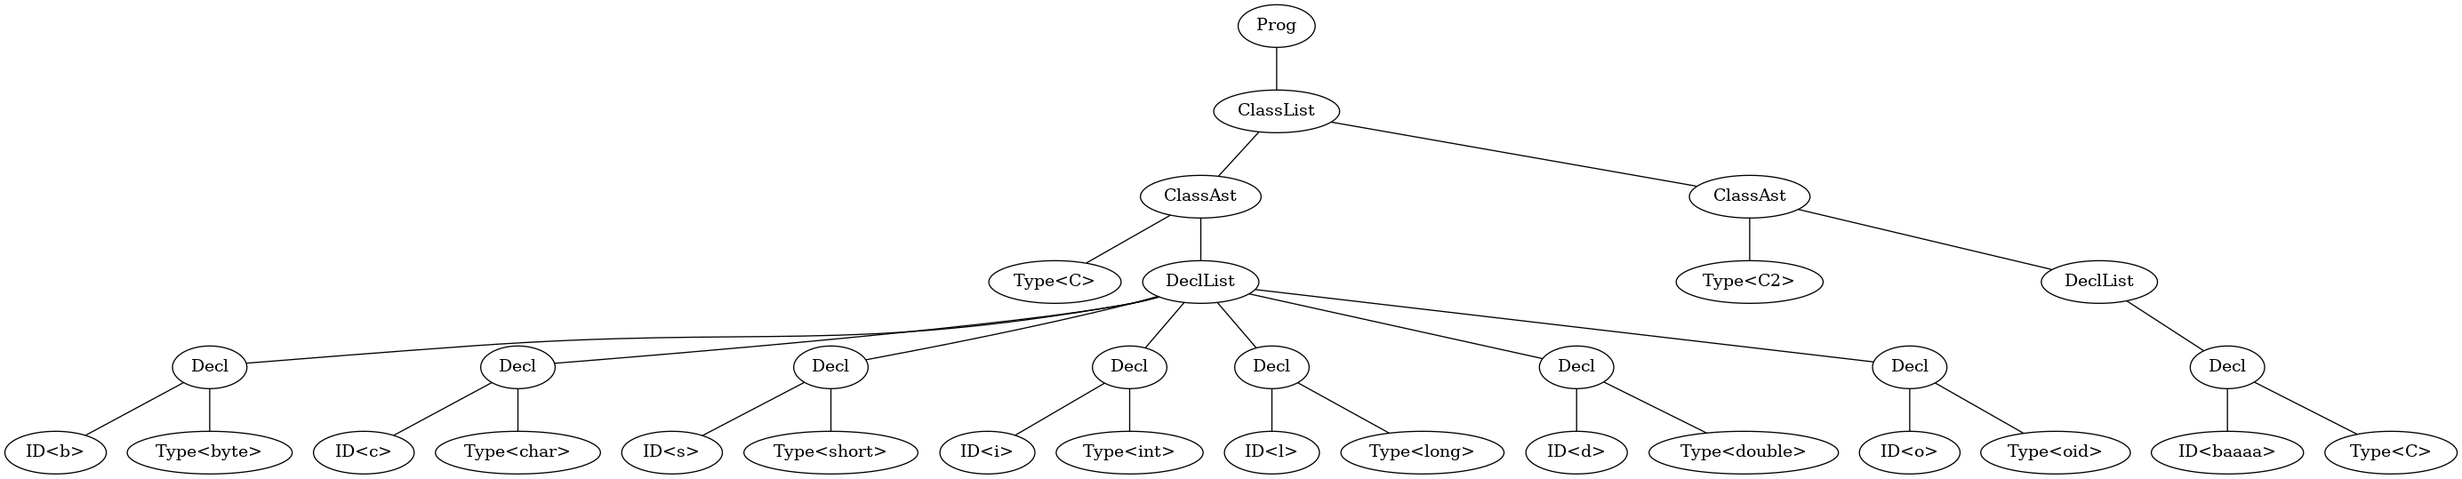
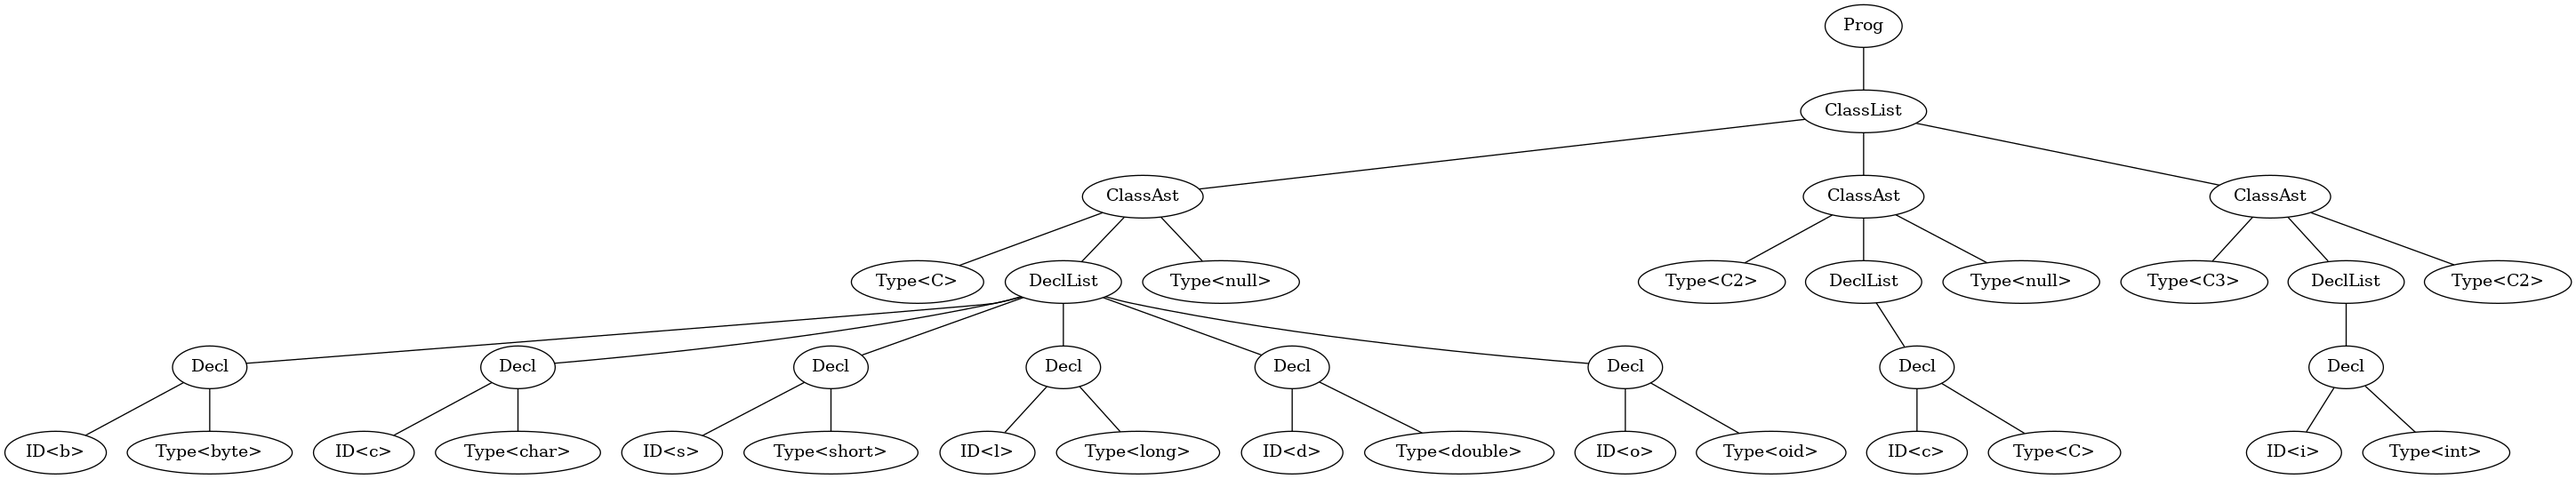
carregamento dinâmico e herança

diff --git a/src/main/java/LangCompiler.java b/src/main/java/LangCompiler.java
@@ -5,11 +5,13 @@ import org.antlr.v4.runtime.*;
 import java.io.*;
 
 import odlAst.*;
+import orm.Entity;
 import visitors.*;
 
 import java.lang.reflect.InvocationTargetException;
 import java.lang.reflect.Method;
 import java.nio.file.Paths;
+import java.util.List;
 import java.util.Scanner;
 
 
@@ -116,35 +118,19 @@ public class LangCompiler {
 		thisMethod.invoke(obj);
 	}
 
-	public static void test(String[] classes, String dir) throws IOException, ClassNotFoundException, Compiler.CompileException, InvocationTargetException, NoSuchMethodException, InstantiationException, IllegalAccessException {
-		String sourceFirstClass = """
-         package com.sb.demo;
- 
-          public class FirstClass {
-              public String a() {
-                  return "x";
-            }
-          }""";
+	public static Fluent.Compiled compileClasses(List<String> classes, String dir) throws IOException, ClassNotFoundException, Compiler.CompileException, InvocationTargetException, NoSuchMethodException, InstantiationException, IllegalAccessException {
 
+		Fluent.CanCompile canCompile = Compiler.java()
+				.from(Paths.get(dir +"/"+ classes.get(0) + ".java"));
 
-		String source = readFile("output/C.java");
+		for(int i = 1; i < classes.size(); i++){
+			canCompile = canCompile.from(Paths.get(dir +"/"+ classes.get(i) + ".java"));
+		}
 
-
-		final var compiled = Compiler.java()
-				.from(Paths.get("output/C.java"))
-				.from(Paths.get("output/C2.java"))
-				.compile();
+		Fluent.Compiled compiled = canCompile.compile();
 
 		 compiled.saveTo(Paths.get("./target/generated_classes"));
-		 compiled.stream().forEach(bc -> System.out.println(Compiler.getBinaryName(bc)));
-		 final var loaded = compiled.load();
-		 Class<?> objClass = loaded.get("generatedodl.C");
-		 Object obj = loaded.newInstance("generatedodl.C");
-		 //loaded.stream().forEach(klass -> System.out.println(klass.getSimpleName()));
-		 final var compiler = loaded.reset();
-		 final var sameCompiler = compiled.reset();
-		Method thisMethod = objClass.getDeclaredMethod("print");
-		thisMethod.invoke(obj);
+
 
 		/*String sourceFirstClass = """
           package com.sb.demo;
@@ -167,6 +153,8 @@ public class LangCompiler {
 		 final var compiler = loaded.reset();
 		 final var sameCompiler = compiled.reset();*/
 
+		return compiled;
+
 	}
 
 
@@ -187,20 +175,28 @@ public class LangCompiler {
 
 			}
 			else if(args[1].equals("-w")){
-				test(null, null);
-
-				//Class<?> c = loadClass("output/C2.java");
-				//runMethod(c, "print");
-				//ast.tryInterpret(null, null, null, null, scope);
-
-
-				/*JavaGenODLVisitor javaGenODLVisitor = new JavaGenODLVisitor();
+				JavaGenODLVisitor javaGenODLVisitor = new JavaGenODLVisitor();
 				ast.accept(javaGenODLVisitor);
-				String javaCode = javaGenODLVisitor.getGeneratedCode();
-				String fileName = "output";
-				String outputPath = "output/" + fileName + ".java";
-				writeToFile(outputPath, javaCode);*/
+				String outputDir = "output";
+
+				List<String> classSources = javaGenODLVisitor.getClassSources();
+				List<String> classNames = javaGenODLVisitor.getClassNames();
+
+				for(int i = 0; i < classSources.size(); i++){
+					writeToFile(outputDir+"/" + classNames.get(i) + ".java", classSources.get(i));
+				}
+
+				Fluent.Compiled compiled = compileClasses(classNames, "output");
+
+				final var loaded = compiled.load();
+				Class<?> objClass = loaded.get("generatedodl.C");
+				Entity obj = (Entity)loaded.newInstance("generatedodl.C");
+				Method thisMethod = objClass.getDeclaredMethod("print");
+				obj.setAttr("i", 13);
+				System.out.println((obj.getAttr("i")));
+				thisMethod.invoke(obj);
 			}
+
 			else if(args[1].equals("-s")){
 				String[] splitName = args[0].split("/");
 				String fileName = splitName[splitName.length-1];

diff --git a/src/main/java/visitors/JavaGenODLVisitor.java b/src/main/java/visitors/JavaGenODLVisitor.java
@@ -16,6 +16,9 @@ public class JavaGenODLVisitor extends ODLVisitor{
     private STGroup groupTemplate;
     private String generatedCode;
 
+    private List<String> classSources = new ArrayList<>();
+    private List<String> classNames= new ArrayList<>();
+
 
     public JavaGenODLVisitor(){
         groupTemplate = new STGroupFile("template/odl.stg");
@@ -37,6 +40,18 @@ public class JavaGenODLVisitor extends ODLVisitor{
         return generatedCode;
     }
 
+    public List<String> getClassSources() {
+        return classSources;
+    }
+
+    public List<String> getClassNames() {
+        return classNames;
+    }
+
+    public Stack<ST> getCodeStack() {
+        return codeStack;
+    }
+
     @Override
     public void visit(ODLProg p) {
         ST template = groupTemplate.getInstanceOf("prog");
@@ -55,13 +70,22 @@ public class JavaGenODLVisitor extends ODLVisitor{
     public void visit(ClassAst a) {
         ST template = groupTemplate.getInstanceOf("class");
         a.getId().accept(this);
+
         if(a.getDeclList()!=null)
         {
             a.getDeclList().accept(this);
             template.add("declist", codeStack.pop());
         }
+
+        if(a.getExtended() != null){
+            a.getExtended().accept(this);
+            template.add("extends", codeStack.pop());
+        }
+
         template.add("name", codeStack.pop());
 
+        classSources.add(template.render());
+        classNames.add(a.getId().getName());
         codeStack.push(template);
 
     }
@@ -105,8 +129,14 @@ public class JavaGenODLVisitor extends ODLVisitor{
 
     @Override
     public void visit(Type t) {
-        ST template = groupTemplate.getInstanceOf("raw_text");
-        template.add("text", t.getName());
+        ST template;
+
+        if(t.getName().equals("oid")){
+            template = groupTemplate.getInstanceOf("oid");
+        }else{
+            template = groupTemplate.getInstanceOf("raw_text");
+        }
+        template.add("value", t.getName());
         codeStack.push(template);
 
     }
@@ -114,7 +144,7 @@ public class JavaGenODLVisitor extends ODLVisitor{
     @Override
     public void visit(ID i) {
         ST template = groupTemplate.getInstanceOf("raw_text");
-        template.add("text", i.getName());
+        template.add("value", i.getName());
         codeStack.push(template);
     }
 }

diff --git a/src/main/java/odlAst/ClassAst.java b/src/main/java/odlAst/ClassAst.java
@@ -16,11 +16,15 @@ public class ClassAst extends Node {
 
     private Type id;
     private DeclList declList;
+    private Type extended;
 
-    public ClassAst(int l, int c, Type id, DeclList declList) {
+    public ClassAst(int l, int c, Type id, Type extended, DeclList declList) {
         super(l, c);
         this.id = id;
         this.declList = declList;
+        if(extended != null) {
+            this.extended = extended;
+        }
     }
 
     public Type getId() {
@@ -36,6 +40,14 @@ public class ClassAst extends Node {
         return 0;
     }*/
 
+    public Type getExtended() {
+        return extended;
+    }
+
+    public void setExtended(Type extended) {
+        this.extended = extended;
+    }
+
     public String dotString(){
         String s = getUid() + " [label= \""+this.getClass().getSimpleName()+"\"]\n";
         s+= getUid() +"--"+id.getUid()+"\n";
@@ -44,6 +56,11 @@ public class ClassAst extends Node {
         if(declList != null){
             s+= getUid() +"--"+declList.getUid()+"\n";
             s+=declList.dotString();
+        }
+
+        if(extended != null){
+            s+= getUid() +"--"+extended.getUid()+"\n";
+            s+=extended.dotString();
         }
 
 

diff --git a/output/C2.java b/output/C2.java
@@ -1,6 +1,33 @@
 
 package generatedodl;
 
-public class C2{
-   public C c;
+import java.lang.String;
+import java.lang.reflect.Field;
+import orm.*;
+
+public class C2   implements Entity{
+    public C c;
+
+    public void print(){
+        System.out.println("Hello C2");
+    }
+
+     @Override
+     public Object getAttr(String attrName) throws NoSuchFieldException, IllegalAccessException{
+          Field f = this.getClass().getDeclaredField(attrName);
+          f.setAccessible(true);
+          Object value = (Object) f.get(this);
+          return value;
+      }
+        @Override
+       public void setAttr(String attrName, Object value) throws NoSuchFieldException, IllegalAccessException{
+            Field f = this.getClass().getDeclaredField(attrName);
+            f.setAccessible(true);
+            f.set(this, value);
+        }
+
+        @Override
+        public void create(Object connection){
+
+        }
 }

diff --git a/output/C3.java b/output/C3.java
@@ -5,17 +5,11 @@ import java.lang.String;
 import java.lang.reflect.Field;
 import orm.*;
 
-public class C   implements Entity{
-    public byte b;
-    public char c;
-    public short s;
+public class C3   extends C2  implements Entity{
     public int i;
-    public long l;
-    public double d;
-    public long o;
 
     public void print(){
-        System.out.println("Hello C");
+        System.out.println("Hello C3");
     }
 
      @Override

diff --git a/src/main/java/orm/Entity.java b/src/main/java/orm/Entity.java
@@ -1,0 +1,10 @@
+package orm;
+
+public interface Entity {
+
+    public Object getAttr(String attrName) throws NoSuchFieldException, IllegalAccessException;
+    public void setAttr(String attrName, Object value) throws NoSuchFieldException, IllegalAccessException;
+
+    public void create(Object connection);
+
+}

diff --git a/readme.md b/readme.md
@@ -1,4 +1,16 @@
 java -jar compiler_lang-1.0-SNAPSHOT-jar-with-dependencies.jar teste_class.odl -w
 dot -Tpng ast.dot > ast.png
 
-/home/patrick/.jdks/corretto-19.0.2
+JAVA_HOME=/home/patrick/.jdks/corretto-19.0.2 mvn package
+
+
+## ANOTAÇÕES
+
+-[ ] ORM
+  - [ ] create
+  - [ ] insert
+  - [ ] update
+  - [ ] delete
+  - [ ] select all
+-[ ] herança com extends
+
